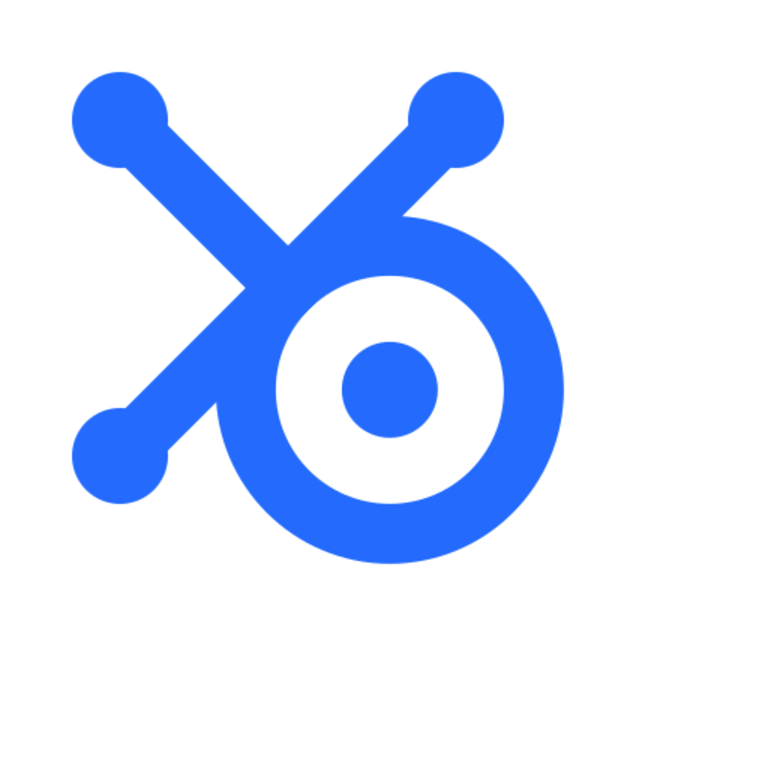
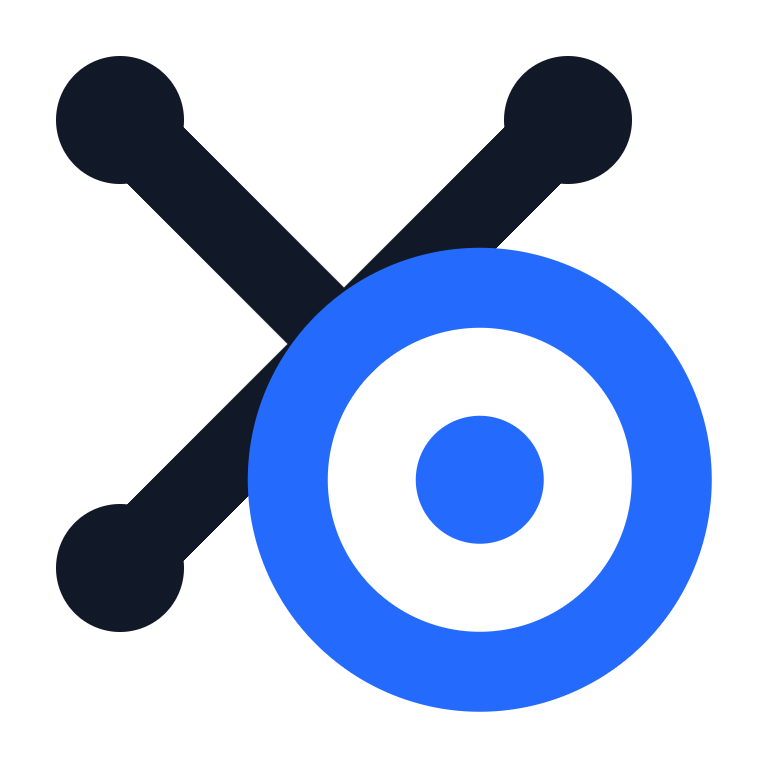
fix(brand): the mark stops hiding in the corner of its own box — centred, two-coloured, and a small cut for the sizes where the nodes turn to mush

diff --git a/brand/README.md b/brand/README.md
@@ -8,11 +8,40 @@
 
 ## Assets
 
-- `yo-mark.svg` — compact symbol for favicons, badges, and small UI surfaces.
+- `yo-mark.svg` — the symbol on its own, for badges and any surface down to about 32 px.
+- `yo-favicon.svg` — the small cut on a cobalt tile: browser tabs and anything else drawn at 16–32 px.
 - `yo-app-icon.svg` — square application icon.
 - `yo-wordmark.svg` — compact shorthand lockup.
 - `yamlover-lockup.svg` — primary full-name lockup.
 - `yamlover-logo-system.png` — visual overview and concept board.
+
+The mark is two-coloured: the `y` in ink, the `o` in cobalt — the same split the lockup makes at
+`yaml`/`over`. Reversed onto a cobalt ground (the app icon, the favicon tile, an active toolbar
+button) it goes to solid white instead: a cobalt `o` on cobalt is no `o` at all.
+
+## Small sizes
+
+Below roughly 32 px the three branch nodes swallow the arms they sit on and the `y` turns to
+mush, so the small sizes use a **small cut**: the branch nodes dropped and the stroke thickened
+to compensate. The round caps still terminate the branches, so the silhouette does not change.
+A line mark that fine also all but vanishes in a browser tab, which is why the favicon puts it
+on a tile.
+
+This folder is the source of truth. The copies that ship are:
+
+- `tools/server/public/yo-favicon.svg` — the app's own browser-tab icon.
+- `tools/demo/public/yo-favicon.svg` and `tools/demo/public/yo-mark.svg` — the demo landing page.
+- `tools/server/src/client/brand.tsx` — the small cut redrawn as JSX, which has to take its two
+  colours from CSS to survive being reversed on an active toolbar button.
+- `tools/jetbrains-plugin/src/main/resources/icons/yamlover{,_dark}.svg` — the 16 px file-type
+  icon, and `META-INF/pluginIcon{,_dark}.svg` — the 40 px Marketplace logo. The IDE has no
+  `currentColor` to offer, so those carry a hand-cut dark palette instead of one adaptive file.
+
+Change a mark here and those follow by hand.
+
+Keep the comments in these files ASCII. An em dash written into an SVG comment has already once
+landed as a raw control byte, which makes the whole file unparseable XML — and a favicon that
+silently renders as nothing.
 
 ## Color
 
